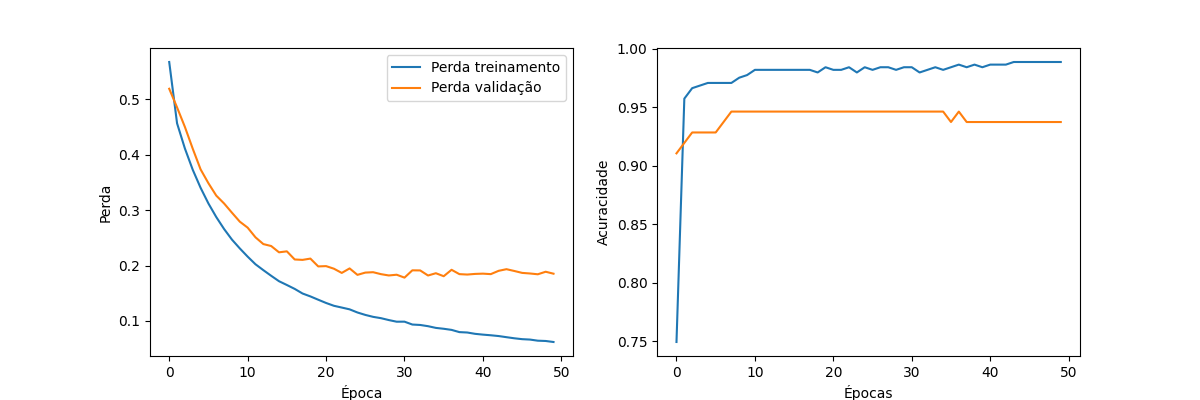
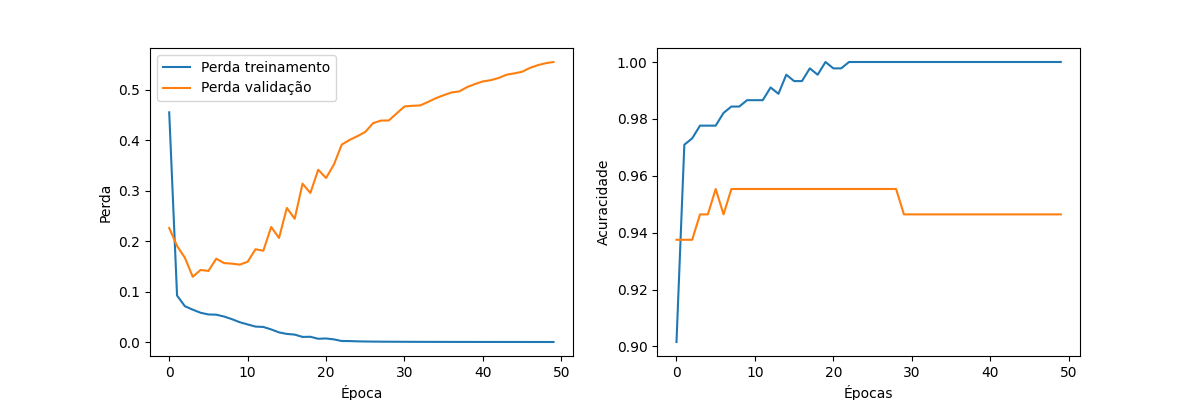
rna

diff --git a/rna/rna.py b/rna/rna.py
@@ -45,23 +45,28 @@ y_test_encoded = label_encoder.transform(y_test.values.ravel())
 # Definir modelos
 models = {
     "Modelo 1": Sequential([
-        Dense(8, activation='tanh', input_shape=(X_train_normalized.shape[1],)),
+        Dense(8, activation='relu', input_shape=(X_train_normalized.shape[1],)),
         Dense(1, activation='sigmoid')
     ]),
-        "Modelo 2": Sequential([
-        Dense(8, activation='leaky_relu', input_shape=(X_train_normalized.shape[1],)),
+     "Modelo 2": Sequential([
+        Dense(32, activation='tanh', input_shape=(X_train_normalized.shape[1],)),
+        Dense(8, activation='tanh'),
         Dense(1, activation='sigmoid')
-        ]),
+    ]),
     "Modelo 3": Sequential([
-        Dense(4, activation='relu', input_shape=(X_train_normalized.shape[1],)),
-        Dense(4, activation='relu'),
+        Dense(32, activation='relu', input_shape=(X_train_normalized.shape[1],)),
+        Dense(16, activation='relu'),
+        Dense(8, activation='relu'),
         Dense(1, activation='sigmoid')
     ]),
     "Modelo 4": Sequential([
-        Dense(8, activation='relu', input_shape=(X_train_normalized.shape[1],)),
-        Dense(1, activation='sigmoid'),
+        Dense(128, activation='leaky_relu', input_shape=(X_train_normalized.shape[1],)),
+        Dense(64, activation='leaky_relu'),
+        Dense(32, activation='leaky_relu'),
+        Dense(1, activation='sigmoid')
     ])
 }
+
 
 results = {}
 
@@ -107,7 +112,6 @@ for model_name, model in models.items():
     plt.ylabel('Acuracidade')
     plt.savefig(f'plotacu_{model_name}.png')
     plt.legend()
-
     plt.tight_layout()
     plt.show()
 
